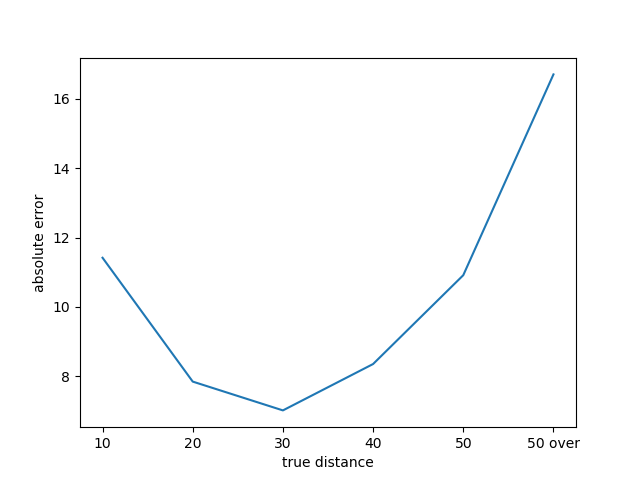
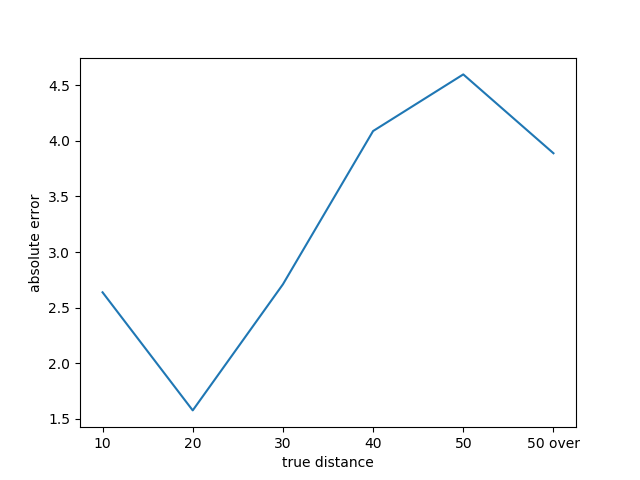
fixed bug

diff --git a/evaluation.py b/evaluation.py
@@ -68,13 +68,13 @@ os.chdir(cur_dir)
 #-----------------------------
 # for each image, compute IoU between predBox and gtBox
 # and select the gtBox with the highest IoU
-predBox = box.BoundBox(2)
 
 # dataframe for result records
 resultDF = pd.DataFrame(columns = ['iou','pc','px','py','pw','ph','pz','gc','gx','gy','gw','gh','gz'])
 
-for dInd in range(0,len(predBoxes)):
-    for pInd in range(1,len(predBoxes[dInd])-1):
+for dInd in np.arange(0,len(predBoxes)):
+    for pInd in np.arange(1,len(predBoxes[dInd])):
+        predBox = box.BoundBox(2)
         predBox.c = predBoxes[dInd][pInd][0]
         predBox.x = predBoxes[dInd][pInd][1]
         predBox.y = predBoxes[dInd][pInd][2]
@@ -83,18 +83,19 @@ for dInd in range(0,len(predBoxes)):
         predBox.z = predBoxes[dInd][pInd][5]
 
         ious = [] 
-        gtBox = [box.BoundBox(2) for i in range(0,len(gtBoxes[dInd])-1)]
+        gtBox = [box.BoundBox(2) for i in np.arange(1,len(gtBoxes[dInd]))]
 
-        for gInd in range(1,len(gtBoxes[dInd])-1):
-            gtBox[gInd].c = gtBoxes[dInd][gInd][0]
-            gtBox[gInd].x = gtBoxes[dInd][gInd][1]
-            gtBox[gInd].y = gtBoxes[dInd][gInd][2]
-            gtBox[gInd].w = gtBoxes[dInd][gInd][3] - gtBoxes[dInd][gInd][1]
-            gtBox[gInd].h = gtBoxes[dInd][gInd][4] - gtBoxes[dInd][gInd][2]
-            gtBox[gInd].z = gtBoxes[dInd][gInd][5]
+        for gInd in np.arange(1,len(gtBoxes[dInd])):
+            if predBox.c != gtBoxes[dInd][gInd][0]: continue
 
-            if predBox.c == gtBox[gInd].c: 
-               ious.append(box.box_iou(predBox, gtBox[gInd]))
+            gtBox[gInd-1].c = gtBoxes[dInd][gInd][0]
+            gtBox[gInd-1].x = gtBoxes[dInd][gInd][1]
+            gtBox[gInd-1].y = gtBoxes[dInd][gInd][2]
+            gtBox[gInd-1].w = gtBoxes[dInd][gInd][3] - gtBoxes[dInd][gInd][1]
+            gtBox[gInd-1].h = gtBoxes[dInd][gInd][4] - gtBoxes[dInd][gInd][2]
+            gtBox[gInd-1].z = gtBoxes[dInd][gInd][5]
+
+            ious.append(box.box_iou(predBox, gtBox[gInd-1]))
 
         if len(ious) == 0: continue
 
